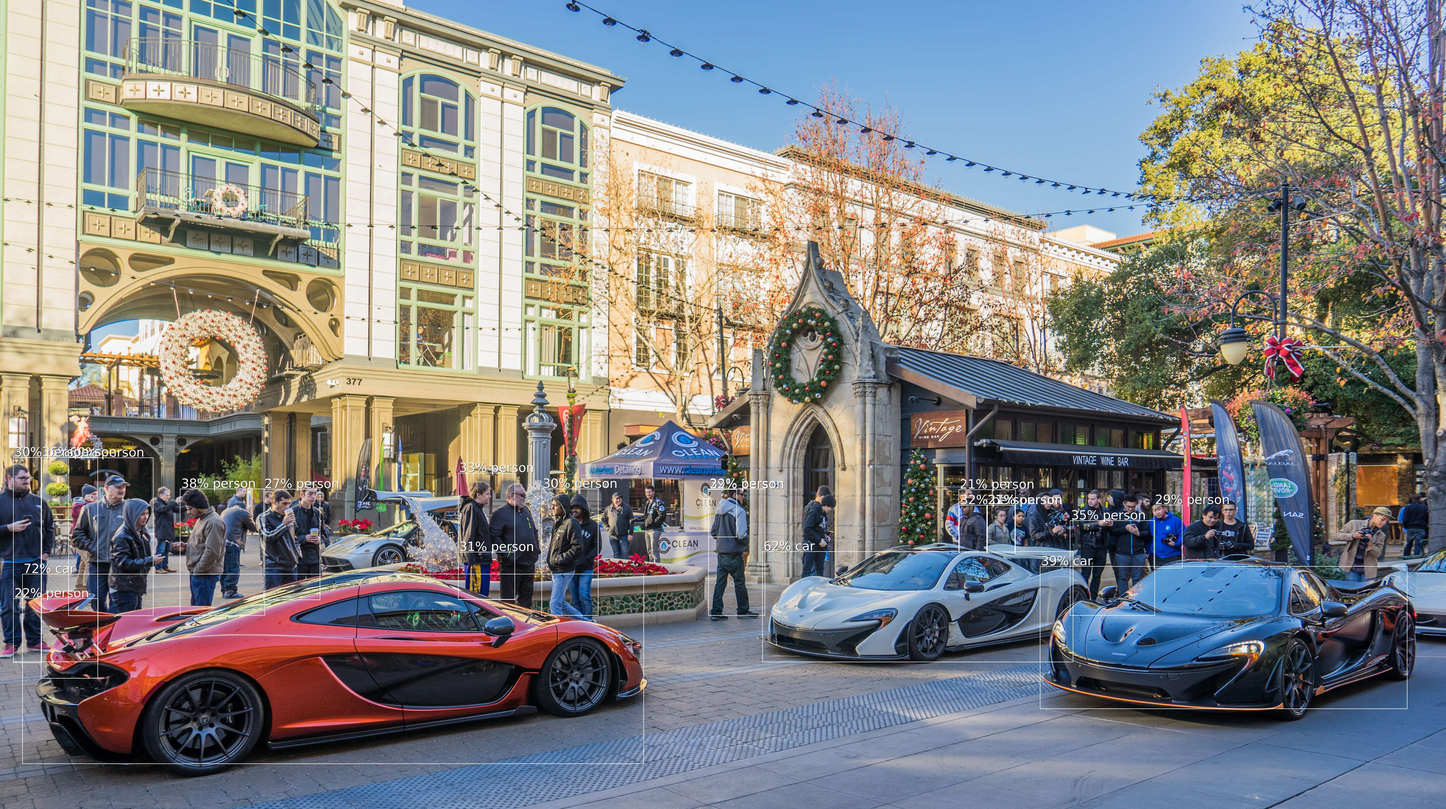
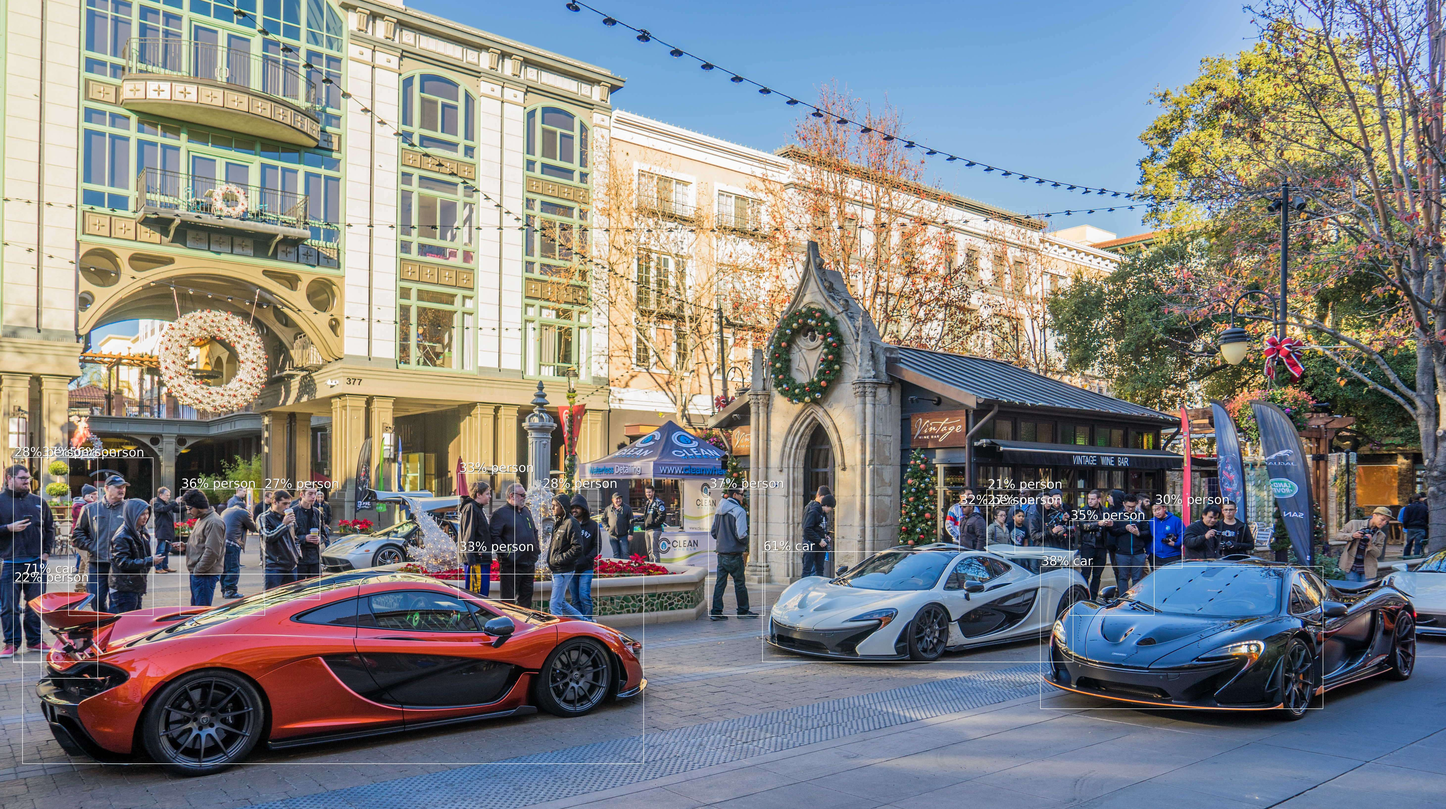
update

diff --git a/nanodet.js b/nanodet.js
@@ -132,7 +132,7 @@ async function processResults(res, inputSize, outputShape) {
 
   // normally nms is run on raw results, but since boxes need to be calculated this way we skip calulcation of
   // unnecessary boxes and run nms only on good candidates (basically it just does IOU analysis as scores are already filtered)
-  const nmsBoxes = results.map((a) => a.box);
+  const nmsBoxes = results.map((a) => [a.box[1], a.box[0], a.box[3], a.box[2]]); // switches boxes for nms from x,y to y,x
   const nmsScores = results.map((a) => a.score);
   const nms = await tf.image.nonMaxSuppressionAsync(nmsBoxes, nmsScores, modelOptions.maxResults, modelOptions.iouThreshold, modelOptions.minScore);
   const nmsIdx = nms.dataSync();
